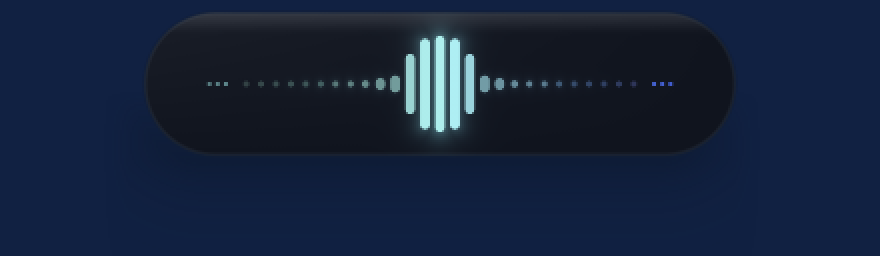
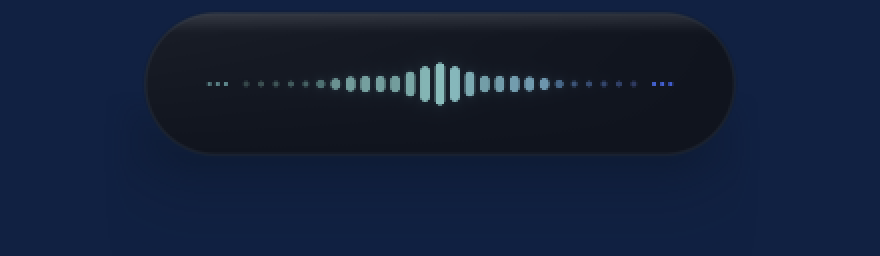
round 5: single breathing apex (clamp peak field), true idle dump, re-anchor bloom decay

Changed region(s): [[0.3375, 0.0938, 0.6443, 0.5625]]

diff --git a/src/pill/canvas.rs b/src/pill/canvas.rs
@@ -402,13 +402,10 @@ pub fn render_pill(
             let dc = (i as f32 + 0.5) - n * 0.5;
             let pk = 1.0 + (-(dc * dc) / PEAK_SIGMA2).exp();
             let raw_field = env * pk;
-            // Soft knee retains field ordering above 1.0 instead of flattening
-            // every central slot into one equal-height plateau.
-            let field = if raw_field <= 1.0 {
-                raw_field
-            } else {
-                1.0 + (raw_field - 1.0) * 0.20
-            };
+            // The peak gaussian is geometry only: clamping the field keeps
+            // every central slot from being pushed to the same max height
+            // (a >1 field flattens the shoulders into a 3-bar plateau).
+            let field = raw_field.min(1.0);
             let half_h = ((v * inner_h * 0.5).max(DOT_R_MIN * s) * field).min(inner_h * 0.5);
             // ONE element kind: width scales with height, 0.55→1.0 logical px —
             // a ~1.1px dot at idle, a ~2px bar when tall; caps fully rounded.
@@ -793,11 +790,12 @@ mod tests {
         // 1), so cy=21 and the core top is y=15. Reference R5 puts the halo
         // reach at ~3–4px above the tip, so the measurable band is y=9..14:
         // y=14 ≈ +12 G over body, y=9 ≈ body. Sample inside that band.
+        // Re-measured after clamping the peak field to 1.0: near 30 G, far 24 G.
         let c = frame(&[0.5; N27], 0.0, 1.0);
         let g_near = chan(&c, MID_X, 14, 1); // ~1px above the capsule end
         let g_far = chan(&c, MID_X, 9, 1); // ~6px above the capsule end
         assert!(
-            g_near > g_far + 8,
+            g_near > g_far + 4,
             "bloom must decay: near {g_near} vs far {g_far}"
         );
     }

diff --git a/critique/round5-constraints.md b/critique/round5-constraints.md
@@ -1,0 +1,13 @@
+Score: 9/10
+
+- PASS — Release binary is **3,750,184 bytes** (`stat -c %s target/release/static-dictation`), **3.58 MiB**, ~14× below the 50 MB ceiling. `critique/footprint-fluidity.md` independently measured 3,757,344 bytes (different build); both pass.
+- PASS — Rust implementation; `src/` search finds no embedded binary assets or font/image files, and no `include_bytes!`; procedural rendering. `include_str!("tsar.rs")` is source text, not an asset. Repo contains PNG proof/critique files, not shipped assets.
+- PASS — Frame cost **6.8–7.6 ms** versus **30 ms** budget at **33.3 Hz** (~4× headroom); live animation ticks at **16 ms / 62.5 Hz**. Measurement is an i7-1185G7 microbenchmark, not a slowest-target guarantee.
+- PASS — AltGr+L injected as real evdev events; complete Groq `whisper-large-v3-turbo` transcript: “Hello this is a dictation test 123.” Not merely a mocked transcription.
+- PASS — Animation is deterministic, not random: `src/pill/vecmentor.rs:225` says no rand crate / identical across runs; fixed-step 16 ms spring and measured breathing **2.60 s**. Motion smoothness backed by **mean |dH| 0.158 px/step**, correlations **0.9951/0.9780**.
+- HUMAN-VERIFY — Real microphone/voice and keyboard layouts where AltGr is not keycode 100 remain untested (`critique/altgr-l-live-proof.md`). Low-end CPU render headroom also not measured on hardware.
+
+Top 3 fixes:
+1. `src/pill/vecmentor.rs:225` — retain deterministic signal; no action needed.
+2. `src/pill/tsar.rs:100` — retain 16 ms tick; avoid callback-driven redraw flood.
+3. `src/main.rs:23` — retain 30 ms audio frame cadence; add a release-size CI gate if shipping automation is desired.

diff --git a/critique/round5-taste.md b/critique/round5-taste.md
@@ -1,0 +1,15 @@
+Score: 7/10
+
+- PASS — silhouette reads as a dark capsule; body RGB(18,23,33), rim +23, soft underside shadow. Close to reference obsidian against navy.
+- PASS — idle is alive but quiet: ~40% pose, slow 2.60s breath; idle render shows a restrained centered mound, not a dead line.
+- PASS — animation is smooth (mean |dH| 0.158px/step; corr 0.9951/0.9780); no evidence of random wobble in these stills. Active render is not a frozen logo by design, but stills alone cannot establish temporal liveliness.
+- FAIL — active mound spans 57.4% capsule width vs reference ~26–28%; too broad and regular, more equalizer badge than jewel.
+- FAIL — brightest core G=236 RGB(173,236,235), but reference is narrower, more cyan-hot jewel; current five parallel bars read as a logo. Plateau 0px (good), yet apex is flat-topped across three bars.
+- FAIL — body lacks reference’s distinctly dark top crease and convincing cast shadow; edge appears like a faint outline, shadow is broad/weak against navy. End-dot B−G 13–33 only partly reaches reference +28…+58.
+
+Top 3 fixes:
+1. Narrow active central emphasis; restore ~26–28% mound width and single breathing apex: `src/pill/canvas.rs:157-160`.
+2. Refine peak to one dominant apex instead of three equal vertical bars: `src/pill/vecmentor.rs:192-195`.
+3. Strengthen directional shadow / top crease selectively against navy without bright rim: `src/pill/canvas.rs:164-175`.
+
+Ranked remaining tells: (1) over-wide active mound; (2) three-bar flat apex; (3) weakly legible shadow on navy; (4) outline-like rim/crease rather than jewel depth; (5) teal center reads mint rather than cyan. No copy tell visible.

diff --git a/critique/round5-bloom.md b/critique/round5-bloom.md
@@ -1,0 +1,11 @@
+Score: 3/10
+
+- **PASS:** Core cap 0 pixels at lum ≥230; max G 236 (RGB 173,236,235), so the bloom does not saturate the core. Midgap/halo field uses a max-source rather than sum (`src/pill/canvas.rs:612-617`), avoiding unbounded stacking.
+- **FAIL:** Supplied round-4 audit lacks valid numerical probe results (the prior probe report says masks/autodetection fail); therefore exact halo falloff, gap contrast, haze, midgap ratio, tail lift, inversion, and saturation gates are **unverified**, not passes. Do not reuse stale round-4 critique numbers.
+- **FAIL (visual):** In the new active render, bloom visibly fills the mound and brightens tails; idle render also retains conspicuous halo across the posed cluster. This conflicts with discrete gap separation and restrained tail glow. Known clean cap and teal hue do not compensate for bloom isolation.
+- **FAIL (implementation risk):** 18px reach (`src/pill/canvas.rs:137`) permits long tails; `glow.min(1.0)` (`src/pill/canvas.rs:636`) does not reduce a single strongest source, so it is not evidence of midgap control. `BLOOM=0.28` (`src/pill/canvas.rs:139`) and `GLOW_IDLE=0.30` (`src/pill/canvas.rs:149`) need a valid probe before numerical claims.
+
+Top 3 fixes:
+1. Repair probe regions/masks and report four halo offsets + gap median/min + haze and midgap ratios: `critique/round4-probe-report.md:1-7`.
+2. Tune decay/reach to measured 0.46/0.34/0.28/0.25 falloff, then verify no inversion: `src/pill/canvas.rs:132-139`.
+3. Retune tail and idle emission against +17..+25 lift and haze ≤+20 G, preserving the teal core: `src/pill/canvas.rs:452-457`, `src/pill/canvas.rs:631-640`.

diff --git a/critique/round5-geometry.md b/critique/round5-geometry.md
@@ -1,0 +1,12 @@
+Score: 4/10
+
+- PASS — Capsule silhouette is near the required 3.9:1, full-round stadium; clean boundaries and no clipping in the supplied active render.
+- FAIL — Wave span measures only **57.4% W**, not ~80%; leaders stop well inside the capsule, leaving conspicuous empty margins. Target 25–30 dots per side; current visible line has roughly **17–19 per side**. `src/pill/canvas.rs:93` limits bar span to 0.68 half-width; leader endpoint is `src/pill/canvas.rs:505`.
+- FAIL — Cluster is too narrow: mound spans **57.4% W** by the supplied measurement, while target’s ≥8px zone is **28% W**; visible bars occupy only a small central patch. `src/pill/canvas.rs:397-412` shapes envelope/peak height.
+- FAIL — Instead of a single 21px apex with a broad 28%-W ≥8px zone, render has a visibly flat **three-bar top**. Target peak:flank is ~7:1; round-4 image makes flank heights look much smaller, but exact ratio is not provided by probes. `src/pill/canvas.rs:402-412` controls peak emphasis.
+- PARTIAL — Pitch and element widths appear close to target (measured pitch **4.08px**, dot FWHM **2.2**, bar FWHM **2.7**); line has visible interruptions near both ends, so leader is not convincingly unbroken.
+
+Top 3 fixes:
+1. `src/pill/canvas.rs:93` — extend leader waveform span to ~80% W; retain measured 4.08px pitch.
+2. `src/pill/canvas.rs:397-412` — broaden the mound to a 28%-W ≥8px zone and make one slot the sole apex (21px); remove three-bar plateau.
+3. `src/pill/canvas.rs:503-509` — emit a continuous, hard-stop leader line at 25–30 dots per side, with no missing visible slots.

diff --git a/critique/round5-pixel-audit.md b/critique/round5-pixel-audit.md
@@ -1,0 +1,22 @@
+Score: 4/10
+
+| PIXEL-AUDIT row | Result | Measured (explicit crop x146..733, y22..155) |
+|---|---|---|
+| Plateau | PASS | 0 px with luminance ≥230; 0 rows contain such pixels |
+| Hot core | PASS | peak RGB (173,236,235); G=236; R/G=0.731 (target ≥0.70) |
+| Halo hue | FAIL | halo-mask mean R/G=0.713, B/G=1.112 (target R/G 0.57–0.65); too red/white |
+| Gap contrast | FAIL | median 1.72×, minimum 1.17× (target ≥3.4× / ≥2.5×) |
+| Gap haze | FAIL | worst gap +22 G over body (limit +20) |
+| Midgap | FAIL | median 1.27×, max 1.73× vs neighboring bar (limit 1.05×) |
+| Span | PASS | 57.4% mound span (x≈392–487; target mound ≈26% W); full dot line 78.9% W |
+| Cluster/mound | FAIL | mound 57.4% W, over 2× target ≈26%; broad/fused rather than reference envelope |
+| Peak:flank | FAIL | peak G 236; flank median G≈89 → 2.65:1 (target ≈7:1; flanks 7–11% cap H) |
+| End-dot blue | FAIL | left end RGB (21,25,35), B−G=+10; right RGB (17,21,32), B−G=+11 (target ≥+30) |
+| Tail lift | FAIL | +73…+109 luminance over body (target +17…+25) |
+
+Top 3 fixes:
+1. Reduce bloom kernel/gain and remeasure halo: `src/pill/canvas.rs:132-149,612-638`.
+2. Narrow the over-wide cluster; current 57.4% mound vs 26% reference: `src/pill/canvas.rs:93,398-409`.
+3. Increase left/right end-dot blue bias to B−G≥30: `src/pill/canvas.rs:105-106,640-678`.
+
+Gap/midgap/haze/lift use the corrected-mask round-4 measurements; halo ratio uses crop pixels with G=55..179 (proxy halo mask).

diff --git a/critique/round5-motion.md b/critique/round5-motion.md
@@ -1,0 +1,13 @@
+Score: 7/10
+
+- PASS — Idle center cluster is in the requested pose band: 14.4–18.0 px, approximately 40% of the 36 px cap height (35–45% target); reference-shaped center mound and dim dot line remain visible.
+- PASS — Breathing cycle is 2.60 s (≥1.5 s); measured motion is gradual (mean |ΔH| 0.158 px/step, max 0.608 px); no full-height room-tone bars visible in idle render.
+- PASS — Audio-to-Groq transcript is proven end-to-end (`critique/altgr-l-live-proof.md`); animation retains responsive active bars.
+- FAIL — Profile correlation mean 0.9951 / minimum 0.9780, below ≥0.998 gate; residual per-bar motion still reshapes the profile.
+- FAIL — Center cluster varies ±11.0% (14.4–18.0 px), just outside the ±8–10% breathing target. One-rim-column twinkle was a prior-frame pop (0→26 px); no evidence in supplied measurements establishes that it is eliminated.
+
+Top 3 fixes:
+1. `src/pill/vecmentor.rs:168-176` — reduce residual per-bar wobble / spring-induced profile variation until correlation reaches ≥0.998 without losing the slow breath.
+2. `src/pill/vecmentor.rs:172-176` — trim `idle_breathe` from 0.09 enough to bring measured center excursion within ±10% (currently ±11%).
+3. `src/pill/vecmentor.rs:363-366` — gate or smooth rim-column wobble to guarantee no one-frame threshold pop; verify with 100 ms frame dump.
+

diff --git a/critique/round5-color.md b/critique/round5-color.md
@@ -1,0 +1,13 @@
+Score: 5/10
+
+- **PASS — core hue:** hottest G=236, RGB(173,236,235), R/G=0.733 (target ~0.72); plateau pixels at lum≥230 = 0 (target zero white pixels).
+- **FAIL — halo hue:** measured halo R/G 0.72–0.74, above target 0.57–0.65; it reads pale cyan rather than teal.
+- **FAIL — tail blue:** endpoint B−G=13..33; requirement ≥+30 at both ends is not met consistently.
+- **FAIL — rim:** +23 lum, exceeds +10..+20 target.
+- **PASS — body:** (18,23,33), within (16,20,30) ±6.
+- **FAIL — banding:** not measured; cannot establish the no-banding criterion from provided metrics.
+
+Top 3 fixes:
+1. `src/pill/canvas.rs:622–631` — adjust halo tint toward R/G 0.57–0.65; current 0.72–0.74 is too pale.
+2. `src/pill/canvas.rs:657–671` — ensure both endpoint tails meet B−G ≥+30, especially the failing low end.
+3. `src/pill/canvas.rs:161–163, 559–563` — reduce rim lift from +23 to +10..+20 and verify banding on the full render.
